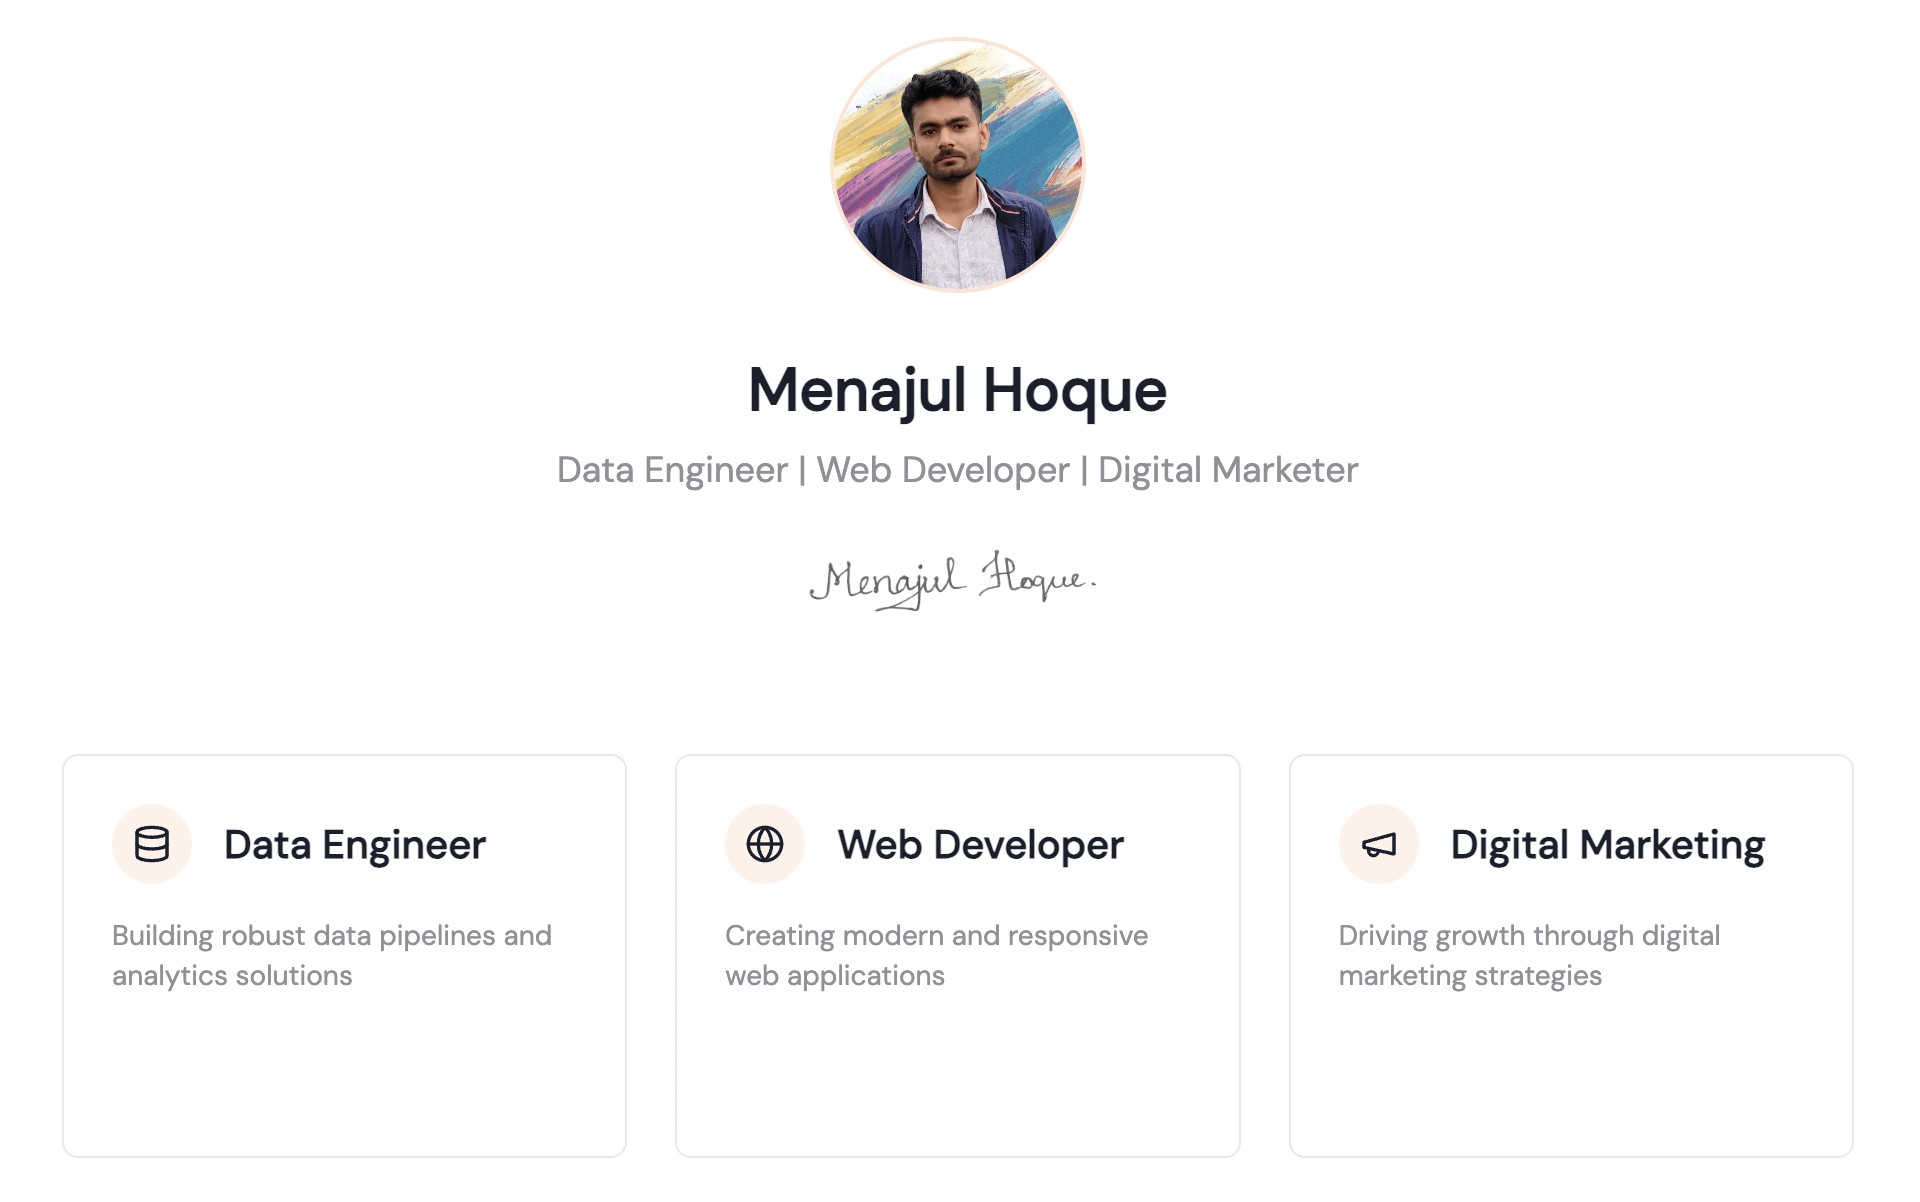
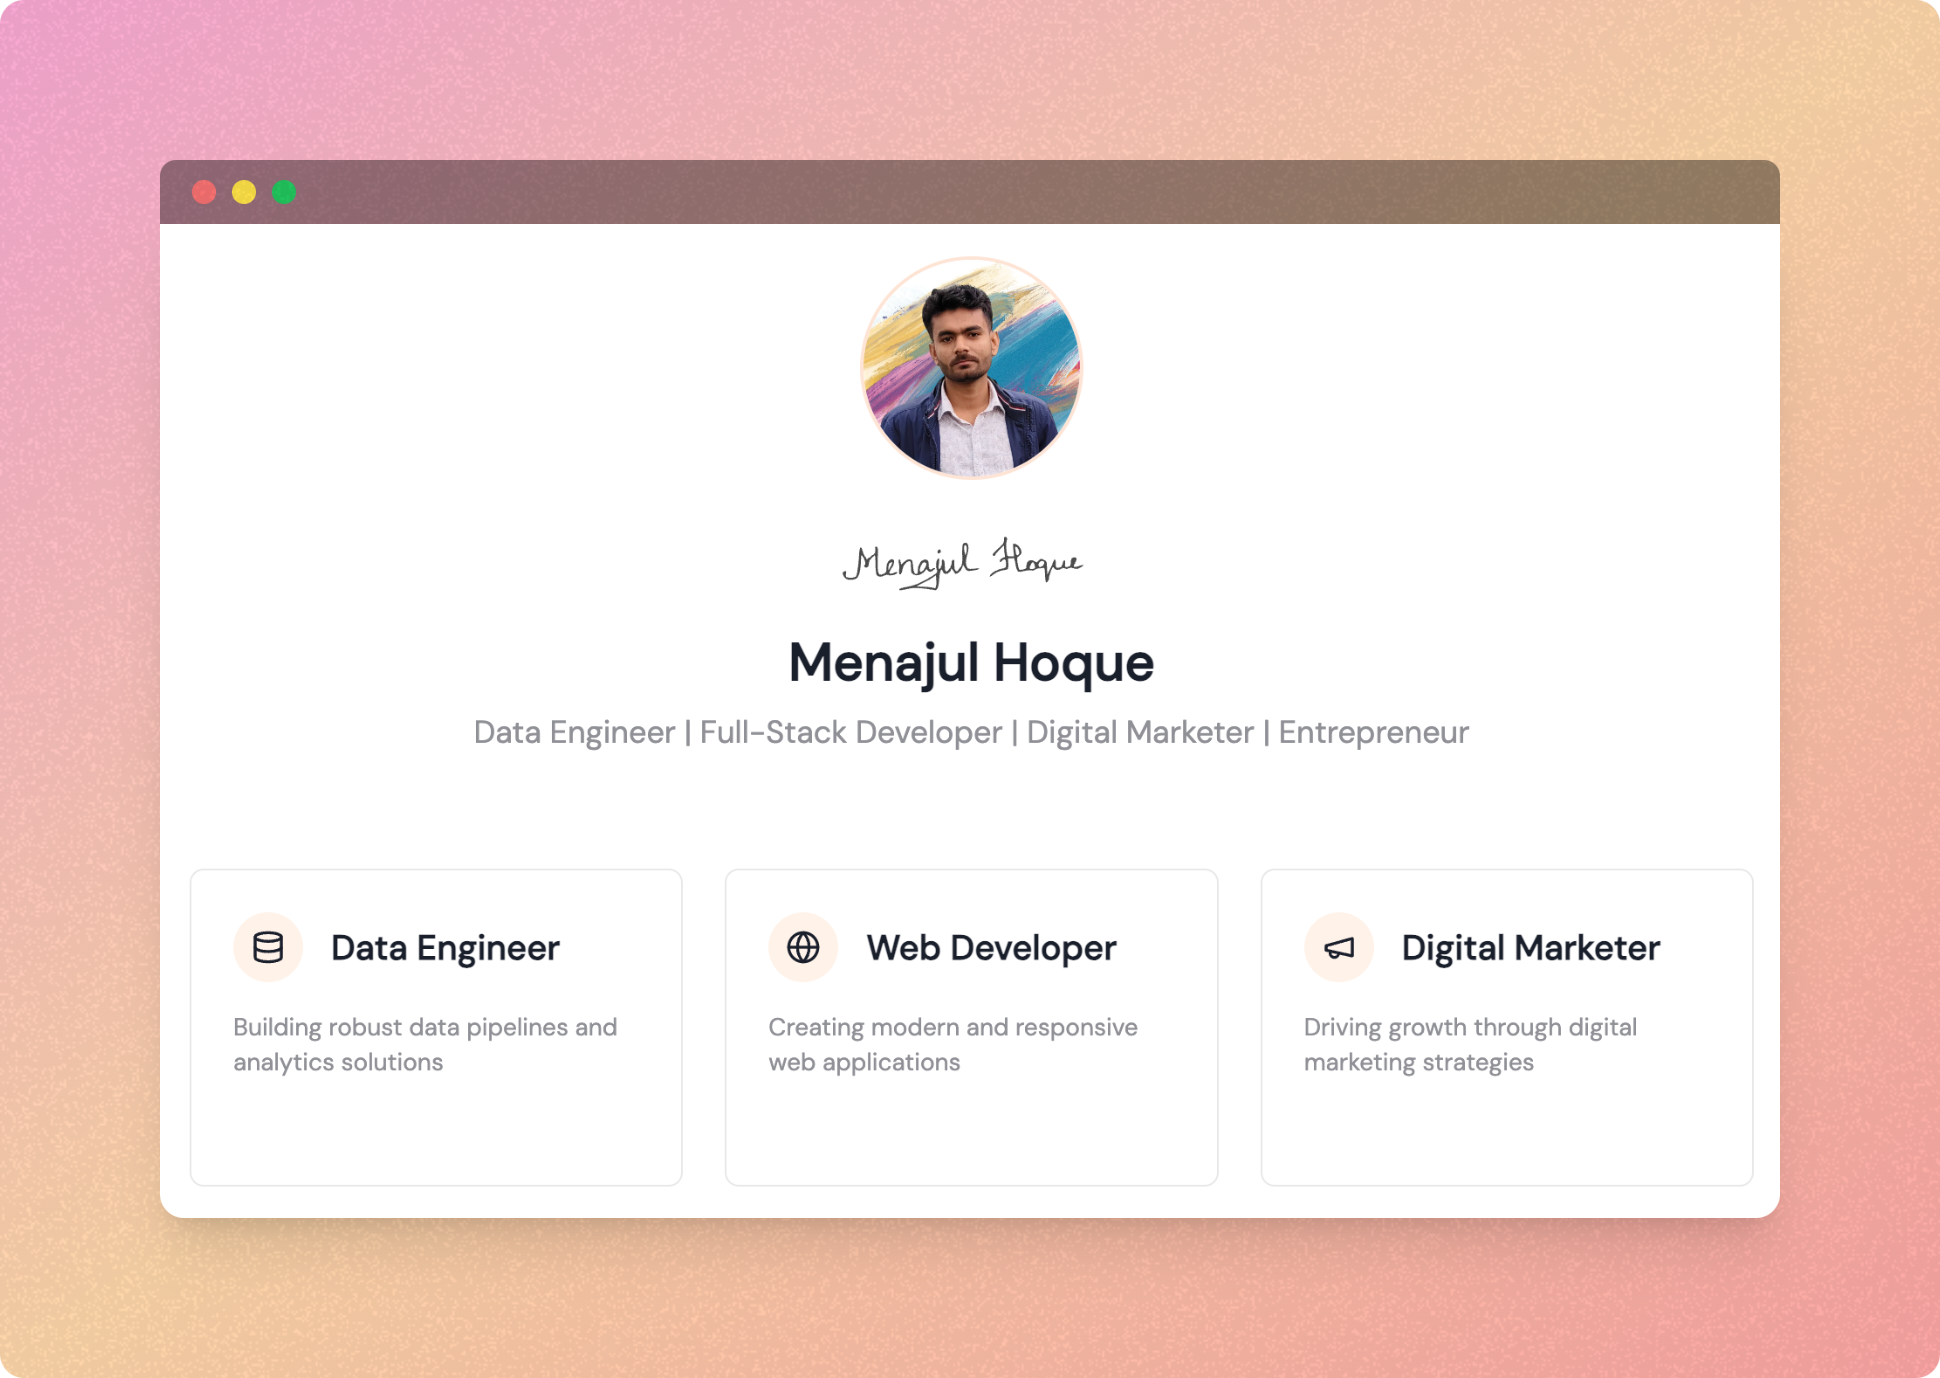
Added Experiences

diff --git a/src/pages/DigitalMarketing.tsx b/src/pages/DigitalMarketing.tsx
@@ -1,10 +1,59 @@
-import { FC, useEffect } from "react";
-import { motion } from "framer-motion";
+import { FC, useEffect, useState } from "react";
+import { motion, AnimatePresence } from "framer-motion";
 import SkillBar from "@/components/SkillBar";
 import ContactForm from "@/components/ContactForm";
 import { Card, CardContent } from "@/components/ui/card";
-import { Mail, Linkedin, Github, ChevronRight, Eye } from 'lucide-react';
+import { Mail, Linkedin, Github, ChevronRight, Eye, Briefcase, X } from 'lucide-react';
 import { Helmet } from 'react-helmet-async';
+
+const AchievementModal: FC<{ src: string; alt: string; onClose: () => void }> = ({ src, alt, onClose }) => (
+  <motion.div
+    initial={{ opacity: 0 }}
+    animate={{ opacity: 1 }}
+    exit={{ opacity: 0 }}
+    className="fixed inset-0 bg-black bg-opacity-50 flex items-center justify-center z-50"
+    onClick={onClose}
+  >
+    <motion.div
+      initial={{ scale: 0.8 }}
+      animate={{ scale: 1 }}
+      exit={{ scale: 0.8 }}
+      className="relative max-w-4xl w-full mx-4"
+      onClick={(e) => e.stopPropagation()}
+    >
+      <img src={src} alt={alt} className="w-full h-auto rounded-lg shadow-xl" />
+      <button
+        onClick={onClose}
+        className="absolute top-4 right-4 text-white bg-black bg-opacity-50 rounded-full p-2 hover:bg-opacity-75 transition-colors"
+        aria-label="Close modal"
+      >
+        <X size={24} />
+      </button>
+    </motion.div>
+  </motion.div>
+);
+
+const AchievementCard: FC<{ src: string; alt: string }> = ({ src, alt }) => {
+  const [isOpen, setIsOpen] = useState(false);
+
+  return (
+    <>
+      <motion.div
+        whileHover={{ scale: 1.05 }}
+        whileTap={{ scale: 0.95 }}
+        className="cursor-pointer overflow-hidden rounded-lg shadow-md"
+        onClick={() => setIsOpen(true)}
+      >
+        <img src={src} alt={alt} className="w-full h-auto object-cover" />
+      </motion.div>
+      <AnimatePresence>
+        {isOpen && (
+          <AchievementModal src={src} alt={alt} onClose={() => setIsOpen(false)} />
+        )}
+      </AnimatePresence>
+    </>
+  );
+};
 
 const DigitalMarketing: FC = () => {
   useEffect(() => {
@@ -48,12 +97,25 @@ const DigitalMarketing: FC = () => {
     },
   ];
 
+  const experience = {
+    title: "Digital Marketing Specialist (Freelance)",
+    company: "Fiverr.com",
+    period: "2020 - 2022",
+    description: "Provided comprehensive digital marketing services to diverse clients, leveraging skills in SEO, content marketing, and social media strategy. Improved online presence and engagement for small to medium-sized businesses across various industries.",
+    achievements: [
+      "Increased organic traffic by an average of 40% for client websites through targeted SEO strategies",
+      "Developed and executed content marketing plans that boosted client engagement rates by 25%",
+      "Managed social media campaigns resulting in a 50% increase in follower growth and interaction",
+      "Implemented Google Analytics and Google Ads campaigns, achieving a 30% improvement in conversion rates",
+    ],
+  };
+
   const achievements = [
-    '/Achievement1.png',
-    '/Achievement2.png',
-    '/Achievement3.png',
-    '/Achievement4.png',
-    '/Achievement5.png',
+    { src: '/Achievement1.png', alt: 'Achievement 1' },
+    { src: '/Achievement2.png', alt: 'Achievement 2' },
+    { src: '/Achievement3.png', alt: 'Achievement 3' },
+    { src: '/Achievement4.png', alt: 'Achievement 4' },
+    { src: '/Achievement5.png', alt: 'Achievement 5' },
   ];
 
   return (
@@ -160,6 +222,33 @@ const DigitalMarketing: FC = () => {
             transition={{ duration: 0.5, delay: 0.1 }}
           >
             <h2 className="text-2xl font-semibold text-primary relative">
+              Experience
+              <span className="block h-1 w-16 bg-accent mt-1 rounded"></span>
+            </h2>
+            <Card className="border-primary/10 hover:border-accent transition-colors">
+              <CardContent className="p-6">
+                <div className="flex items-center mb-4">
+                  <Briefcase className="w-6 h-6 text-accent mr-2" />
+                  <h3 className="text-xl text-primary font-medium">{experience.title}</h3>
+                </div>
+                <p className="text-muted mb-2">{experience.company} | {experience.period}</p>
+                <p className="text-muted mb-4">{experience.description}</p>
+                <ul className="list-disc list-inside space-y-2">
+                  {experience.achievements.map((achievement, index) => (
+                    <li key={index} className="text-muted">{achievement}</li>
+                  ))}
+                </ul>
+              </CardContent>
+            </Card>
+          </motion.section>
+
+          <motion.section 
+            className="space-y-6"
+            initial={{ opacity: 0, y: 20 }}
+            animate={{ opacity: 1, y: 0 }}
+            transition={{ duration: 0.5, delay: 0.2 }}
+          >
+            <h2 className="text-2xl font-semibold text-primary relative">
               Skills
               <span className="block h-1 w-16 bg-accent mt-1 rounded"></span>
             </h2>
@@ -178,7 +267,7 @@ const DigitalMarketing: FC = () => {
             className="space-y-6"
             initial={{ opacity: 0, y: 20 }}
             animate={{ opacity: 1, y: 0 }}
-            transition={{ duration: 0.5, delay: 0.2 }}
+            transition={{ duration: 0.5, delay: 0.3 }}
           >
             <h2 className="text-2xl font-semibold text-primary relative">
               Featured Projects
@@ -215,7 +304,24 @@ const DigitalMarketing: FC = () => {
             className="space-y-6"
             initial={{ opacity: 0, y: 20 }}
             animate={{ opacity: 1, y: 0 }}
-            transition={{ duration: 0.5, delay: 0.3 }}
+            transition={{ duration: 0.5, delay: 0.4 }}
+          >
+            <h2 className="text-2xl font-semibold text-primary relative">
+              Achievements
+              <span className="block h-1 w-16 bg-accent mt-1 rounded"></span>
+            </h2>
+            <div className="grid grid-cols-2 md:grid-cols-3 gap-4">
+              {achievements.map((achievement, index) => (
+                <AchievementCard key={index} src={achievement.src} alt={achievement.alt} />
+              ))}
+            </div>
+          </motion.section>
+
+          <motion.section 
+            className="space-y-6"
+            initial={{ opacity: 0, y: 20 }}
+            animate={{ opacity: 1, y: 0 }}
+            transition={{ duration: 0.5, delay: 0.5 }}
           >
             <h2 className="text-2xl font-semibold text-primary relative">
               Get in Touch
@@ -234,3 +340,4 @@ const DigitalMarketing: FC = () => {
 };
 
 export default DigitalMarketing;
+

diff --git a/src/pages/WebDeveloper.tsx b/src/pages/WebDeveloper.tsx
@@ -3,13 +3,27 @@ import { motion } from "framer-motion";
 import SkillBar from "@/components/SkillBar";
 import ContactForm from "@/components/ContactForm";
 import { Card, CardContent } from "@/components/ui/card";
-import { Mail, Linkedin, Github, ChevronRight, Eye } from 'lucide-react';
+import { Mail, Linkedin, Github, ChevronRight, Eye, Briefcase } from 'lucide-react';
 import { Helmet } from 'react-helmet-async';
 
-const WebDeveloper: FC = () => {
+const FullStackDeveloper: FC = () => {
   useEffect(() => {
-    document.title = 'Menajul Hoque | Web Developer Portfolio';
+    document.title = 'Menajul Hoque | Full-Stack Developer Portfolio';
   }, []);
+
+  const experience = {
+    title: "Individual Learner",
+    company: "Loneliness & LLMs",
+    period: "2020 - Present",
+    description: "As an end-to-end web developer, I've been focusing on building and improving VidStats, a SaaS platform for YouTube creators. This journey has been a testament to my ability to learn, adapt, and implement full-stack solutions independently.",
+    achievements: [
+      "Designed and developed the entire VidStats platform from concept to deployment",
+      "Implemented complex data analytics features to provide valuable insights for YouTube creators",
+      "Integrated various APIs and services to enhance platform functionality",
+      "Optimized performance and user experience through iterative development and user feedback",
+      "Managed all aspects of the project including frontend, backend, database, and DevOps",
+    ],
+  };
 
   const skills = [
     { skill: "Next.js", level: 3 },
@@ -60,8 +74,8 @@ const WebDeveloper: FC = () => {
   return (
     <>
       <Helmet>
-        <title>Web Developer Portfolio</title>
-        <meta name="description" content="Web Developer Portfolio showcasing my projects and skills" />
+        <title>Full-Stack Developer Portfolio</title>
+        <meta name="description" content="Full-Stack Developer Portfolio showcasing my projects and skills" />
       </Helmet>
       <div className="min-h-screen bg-background animate-fade-in">
         {/* Desktop Header */}
@@ -145,11 +159,11 @@ const WebDeveloper: FC = () => {
             transition={{ duration: 0.5 }}
           >
             <h1 className="text-4xl font-bold text-primary">
-              Web Developer
+              Full-Stack Developer
             </h1>
             <p className="text-lg text-muted max-w-2xl mx-auto leading-relaxed">
               Specializing in modern, responsive web applications using cutting-edge technologies. 
-              Focused on delivering clean, efficient code and exceptional user experiences.
+              Focused on delivering clean, efficient code and exceptional user experiences across the entire stack.
             </p>
           </motion.section>
 
@@ -158,6 +172,33 @@ const WebDeveloper: FC = () => {
             initial={{ opacity: 0, y: 20 }}
             animate={{ opacity: 1, y: 0 }}
             transition={{ duration: 0.5, delay: 0.1 }}
+          >
+            <h2 className="text-2xl font-semibold text-primary relative">
+              Experience
+              <span className="block h-1 w-16 bg-accent mt-1 rounded"></span>
+            </h2>
+            <Card className="border-primary/10 hover:border-accent transition-colors">
+              <CardContent className="p-6">
+                <div className="flex items-center mb-4">
+                  <Briefcase className="w-6 h-6 text-accent mr-2" />
+                  <h3 className="text-xl text-primary font-medium">{experience.title}</h3>
+                </div>
+                <p className="text-muted mb-2">{experience.company} | {experience.period}</p>
+                <p className="text-muted mb-4">{experience.description}</p>
+                <ul className="list-disc list-inside space-y-2">
+                  {experience.achievements.map((achievement, index) => (
+                    <li key={index} className="text-muted">{achievement}</li>
+                  ))}
+                </ul>
+              </CardContent>
+            </Card>
+          </motion.section>
+
+          <motion.section 
+            className="space-y-6"
+            initial={{ opacity: 0, y: 20 }}
+            animate={{ opacity: 1, y: 0 }}
+            transition={{ duration: 0.5, delay: 0.2 }}
           >
             <h2 className="text-2xl font-semibold text-primary relative">
               Skills
@@ -178,7 +219,7 @@ const WebDeveloper: FC = () => {
             className="space-y-6"
             initial={{ opacity: 0, y: 20 }}
             animate={{ opacity: 1, y: 0 }}
-            transition={{ duration: 0.5, delay: 0.2 }}
+            transition={{ duration: 0.5, delay: 0.3 }}
           >
             <h2 className="text-2xl font-semibold text-primary relative">
               Featured Projects
@@ -215,7 +256,7 @@ const WebDeveloper: FC = () => {
             className="space-y-6"
             initial={{ opacity: 0, y: 20 }}
             animate={{ opacity: 1, y: 0 }}
-            transition={{ duration: 0.5, delay: 0.3 }}
+            transition={{ duration: 0.5, delay: 0.4 }}
           >
             <h2 className="text-2xl font-semibold text-primary relative">
               Get in Touch
@@ -233,4 +274,4 @@ const WebDeveloper: FC = () => {
   );
 };
 
-export default WebDeveloper;
+export default FullStackDeveloper;

diff --git a/src/pages/Index.tsx b/src/pages/Index.tsx
@@ -36,7 +36,7 @@ const Index: FC = () => {
             className="h-12 mx-auto object-contain opacity-70 mb-4"
           />
           <h1 className="text-3xl font-bold text-primary mb-2">Menajul Hoque</h1>
-          <p className="text-muted text-lg">Data Engineer | Web Developer | Digital Marketer | Entrepreneur</p>
+          <p className="text-muted text-lg">Data Engineer | Full-Stack Developer | Digital Marketer | Entrepreneur</p>
         </motion.div>
         
         <div className="grid grid-cols-1 md:grid-cols-3 gap-6">
@@ -57,7 +57,7 @@ const Index: FC = () => {
                   </div>
                   <p className="text-muted text-sm flex-grow">{role.description}</p>
                   <div className="mt-4 text-accent text-sm font-medium opacity-0 group-hover:opacity-100 transition-opacity">
-                    Explore my {role.title} portfolio→
+                    View {role.title} portfolio→
                   </div>
                 </div>
               </Link>
